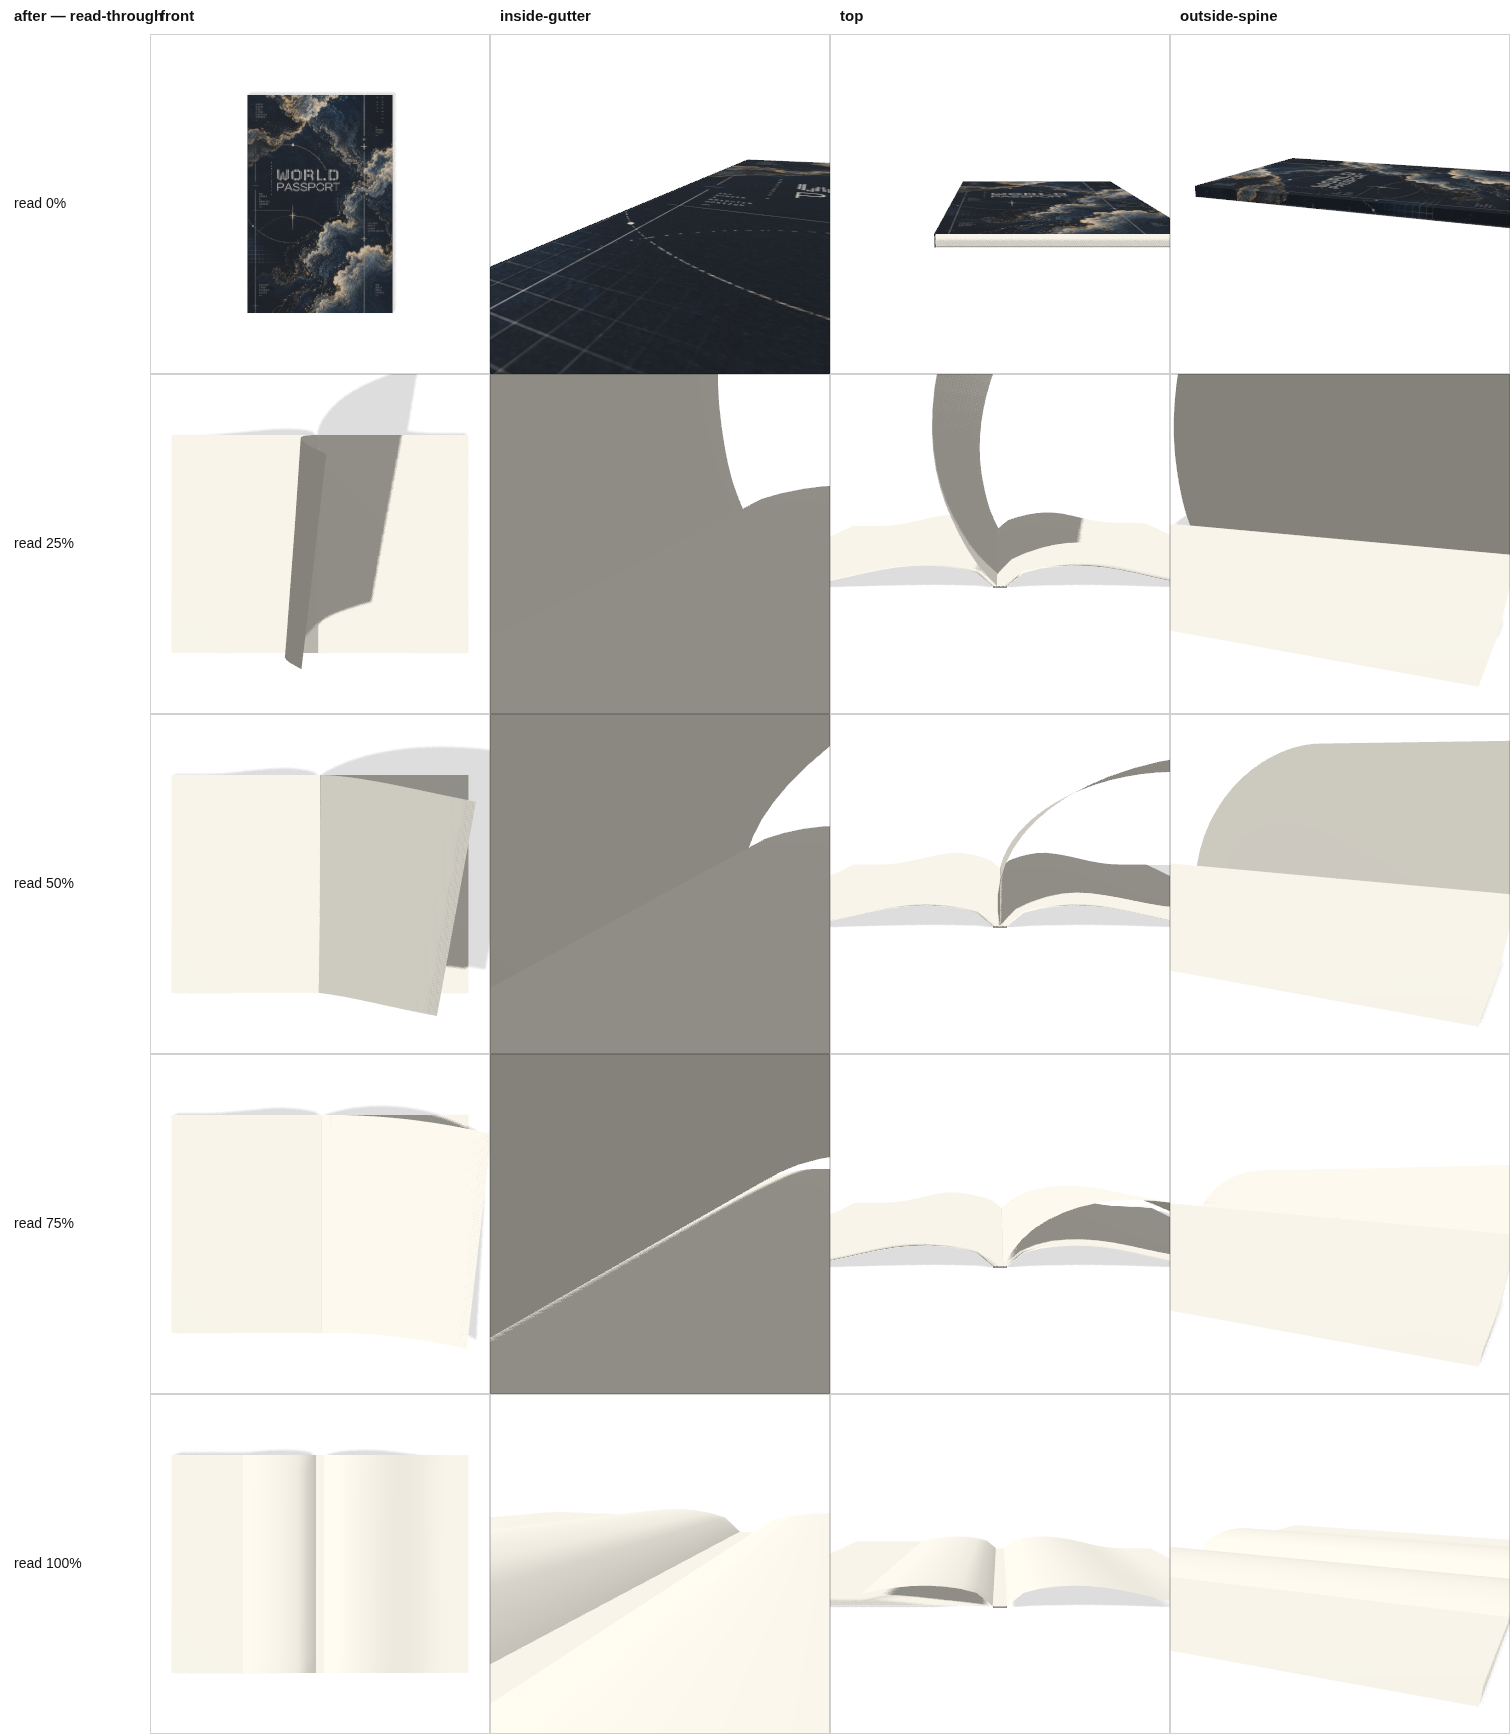
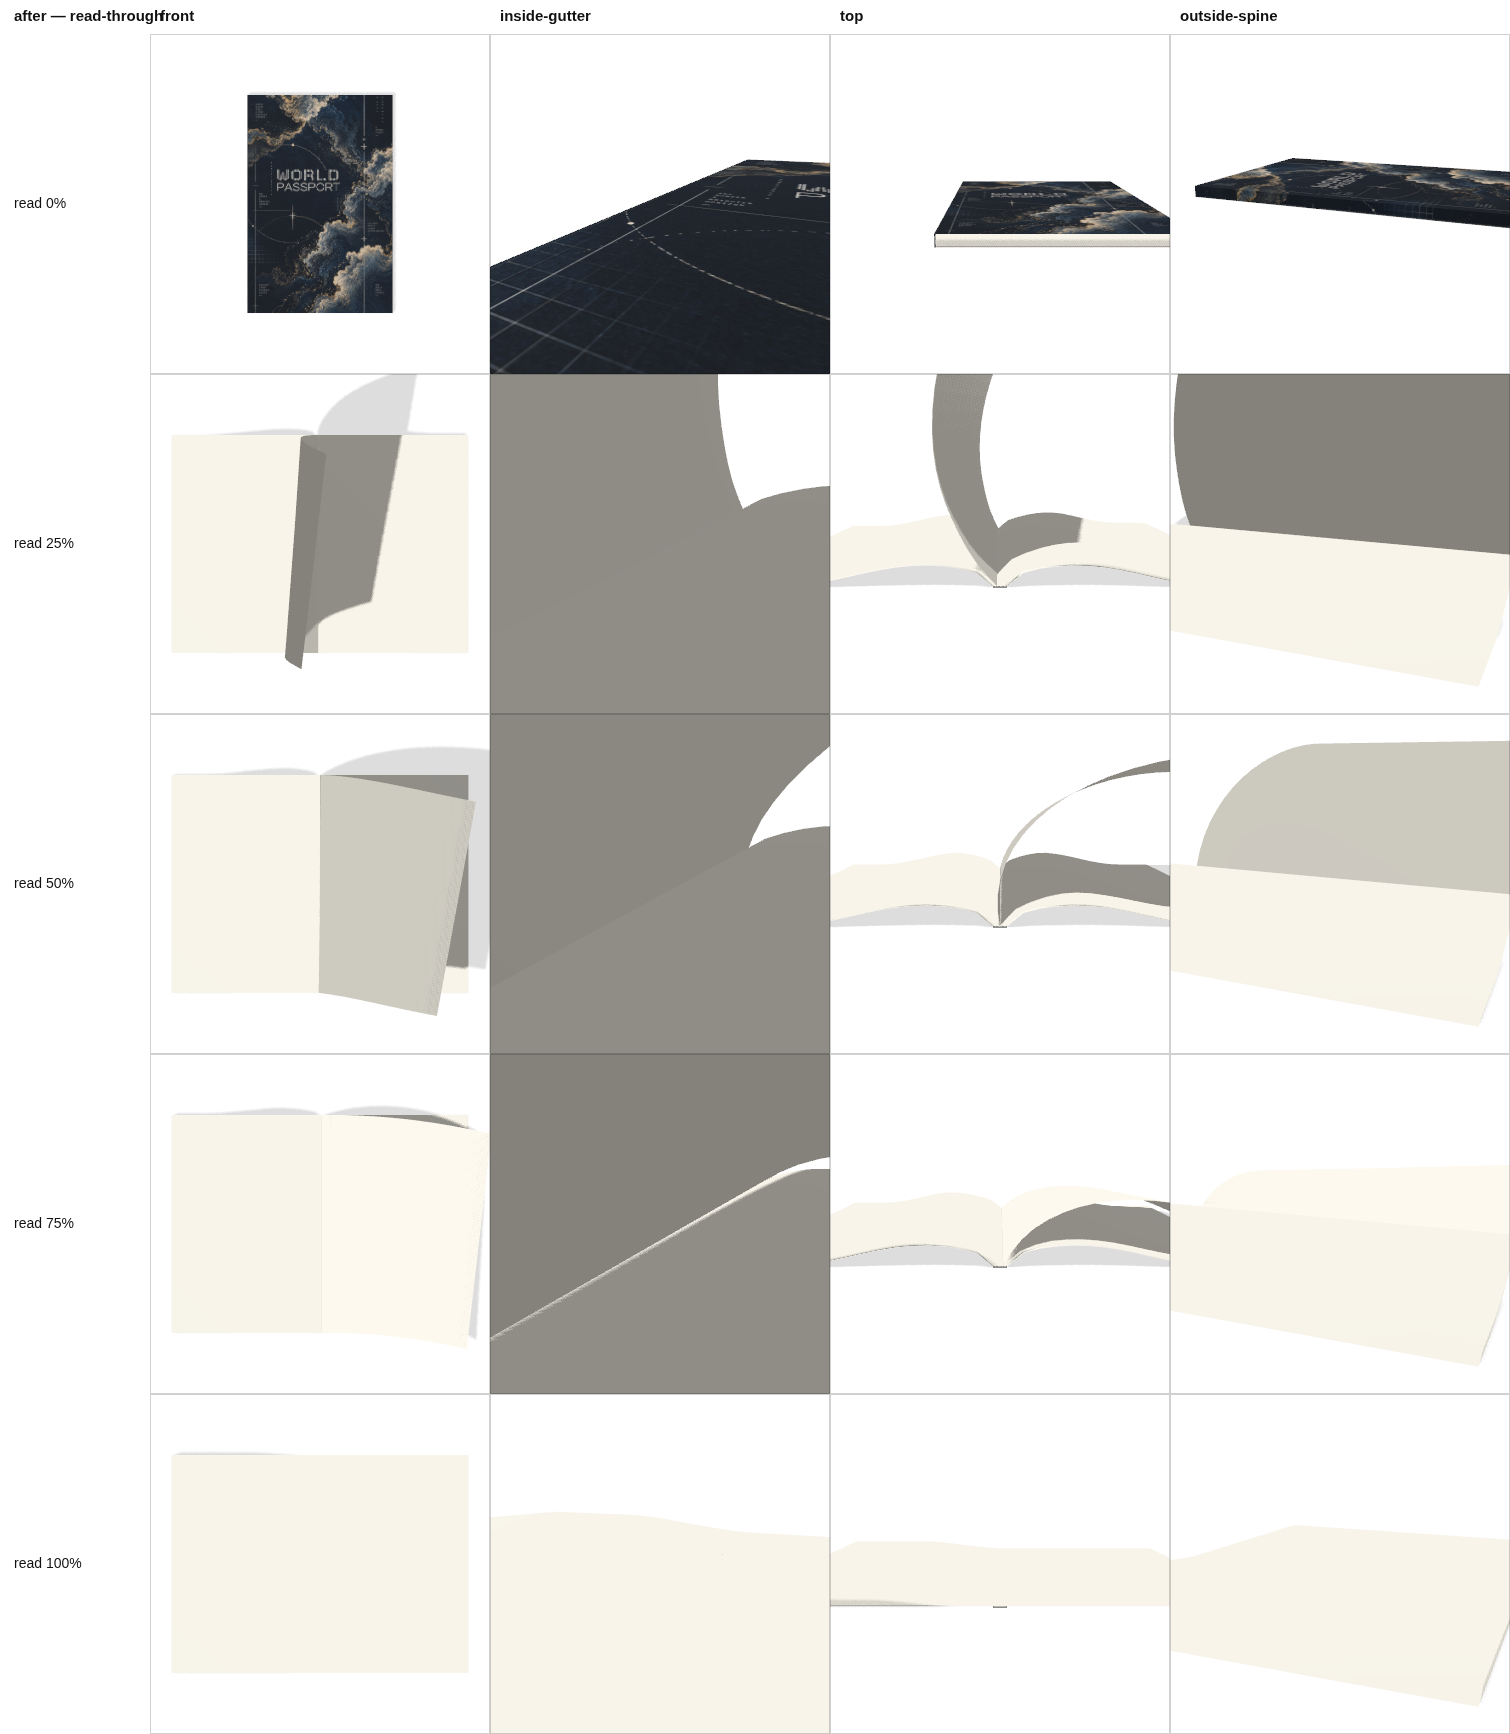
fix(binding): covers flatten with the block on the last leaf
Fix 1 of 4 from Boss's list: pages passing through the cover, and the last
page sitting crooked.

Both were one bug. #apply fades the leaves' page curl out over the final leaf
(leafTail), the way Quick FlipBook fades its own last sheet, but
#refreshSoftCovers was driving the covers from pose.openAmount instead. Over
the last unit of progress the text block went dead flat while both covers kept
their full droop — an 0.054 dome on a text block only 0.0296 thick, so each
cover rose straight up through the pile lying on it. That is the leaf edge
showing through the cover, the crooked last page, and the back cover refusing
to sit down.

Covers now take the same fade the leaves take. Identical everywhere else:
while the case opens leafProgress is 0, so the shared curve is openAmount and
nothing about the opening changes.

Tests 51/51, build clean.

Changed region(s): [[0.3113, 0.872, 0.498, 0.9654], [0.5914, 0.872, 0.7781, 0.9343], [0.1868, 0.8408, 0.2179, 0.9654]]

diff --git a/src/binding.js b/src/binding.js
@@ -661,7 +661,12 @@ export class CaseBinding extends THREE.Group {
       // sheet the whole block rests on. Both fade in from nothing, so a shut
       // book is a flat stack and t=0 looks exactly as it always has.
       const turn = entry.outward === 1 ? pose.openAmount : 0;
-      const paper = leafDeformation(turn, pose.openAmount);
+      // Strength is the same number the leaves get, not openAmount. A cover is
+      // the outermost sheet of the book, so it has to flatten with the sheet
+      // it is lying against: on the last leaf the fade takes the text block to
+      // dead flat, and a cover still carrying its full droop domes a whole
+      // text block's worth straight up through the pile lying on it.
+      const paper = leafDeformation(turn, this.#curve.intensity);
       const sign = -entry.normalSign;
       entry.curl.intensity = sign * paper.curl;
       entry.bend.force = sign * paper.bend;
